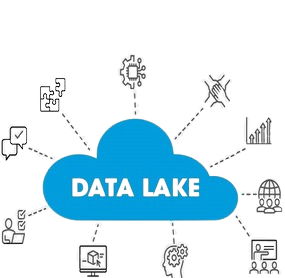
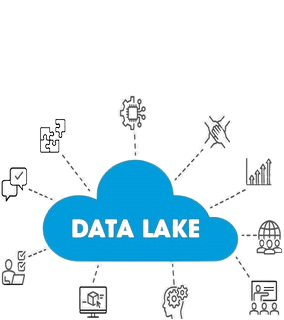
data lake down

diff --git a/solucoes/catalogo-de-dados/index.html b/solucoes/catalogo-de-dados/index.html
@@ -129,7 +129,9 @@
 				</div>
             </div>
             <div class="col_1 left">
-				<img src="../../wp-content/uploads/2019/05/catalogoresized.png" class="block right" Style="z-index:-1"/>                <div class="clear"></div>
+				<!--<img src="../../wp-content/uploads/2019/05/catalogoresized.png" class="block right" Style="z-index:-1"/> -->
+		<img src="../../wp-content/uploads/2019/05/catalogo2resize.png" class="block right" Style="z-index:-1"/>
+                <div class="clear"></div>
             </div>
             <div class="clear"></div>
 			
